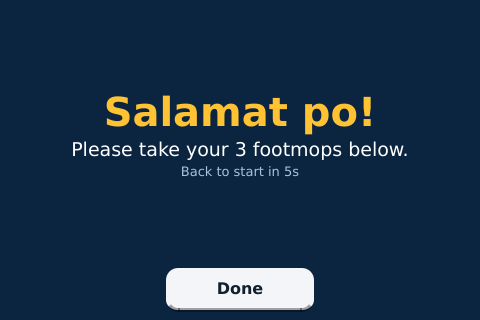
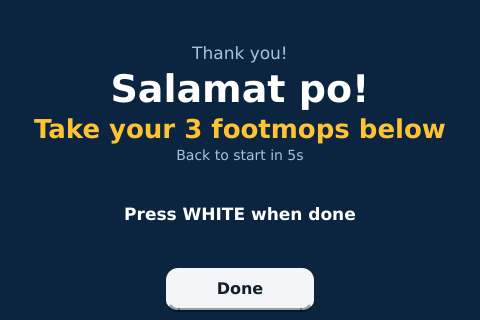
Give every customer screen the welcome-screen layout
Quantity, payment, dispensing, success, sold-out, fault and the
"Still there?" warning now share one centred layout: small muted line,
big bold title, yellow highlight, small detail line, and a bold
instruction - no header bar, no boxed panels.

Claude-Session: https://claude.ai/code/session_015ukmGBxerGga86RxMG4qdD

Changed region(s): [[0.0625, 0.2188, 0.9375, 0.5625], [0.25, 0.625, 0.75, 0.6875], [0.4062, 0.125, 0.5938, 0.1875]]

diff --git a/footmop_vendo/footmop/ui/screens.py b/footmop_vendo/footmop/ui/screens.py
@@ -183,154 +183,158 @@ def card(sc: T.Scale, color: str) -> Tuple[QFrame, QVBoxLayout]:
 
 
 # ================================================================= customer
+class Hero:
+    """The welcome-screen layout, shared by every customer screen so they all
+    look alike - a vertically centred stack of:
+
+        kicker   small, muted         ("Welcome to")
+        main     big, bold, white     ("Footmop Vendo")
+        accent   bold, yellow         ("P5 each")
+        sub      small, muted         ("6 available")
+        cta      bold, white          ("Press WHITE to buy")
+    """
+
+    def __init__(self, screen: "Screen", main: Optional[QWidget] = None,
+                 extra: Optional[QWidget] = None, main_px: int = 38):
+        sc = screen.ctx.sc
+        b = screen.body
+        b.addStretch(1)
+        self.kicker = T.label(sc, "", 17, T.MUTED)
+        b.addWidget(self.kicker)
+        if main is None:
+            self.main = T.label(sc, "", main_px, T.TEXT, True)
+            b.addWidget(self.main)
+        else:
+            b.addWidget(main)
+        self.accent = T.label(sc, "", 26, T.ACCENT, True)
+        b.addWidget(self.accent)
+        if extra is not None:
+            b.addWidget(extra)
+        self.sub = T.label(sc, "", 14, T.MUTED, wrap=True)
+        b.addWidget(self.sub)
+        b.addStretch(1)
+        self.cta = T.label(sc, "", 17, T.TEXT, True, wrap=True)
+        b.addWidget(self.cta)
+        b.addStretch(1)
+
+    def set(self, kicker: str = "", main: Optional[str] = None, accent: str = "",
+            sub: str = "", cta: str = "") -> None:
+        for lbl, txt in ((self.kicker, kicker), (self.accent, accent), (self.sub, sub),
+                         (self.cta, cta)):
+            _set(lbl, txt)
+            lbl.setVisible(bool(txt))
+        if main is not None and hasattr(self, "main"):
+            _set(self.main, main)
+
+
 class LandingScreen(Screen):
     def __init__(self, ctx: Ctx):
         super().__init__(ctx)
-        sc = ctx.sc
-        self.body.addStretch(1)
-        self.body.addWidget(T.label(sc, "Welcome to", 17, T.MUTED))
-        self.body.addWidget(T.label(sc, "Footmop Vendo", 38, T.TEXT, True))
-        self.price = T.label(sc, "", 26, T.ACCENT, True)
-        self.body.addWidget(self.price)
-        self.avail = T.label(sc, "", 14, T.MUTED)
-        self.body.addWidget(self.avail)
-        self.body.addStretch(1)
-        self.body.addWidget(T.label(sc, "Press WHITE to buy", 17, T.TEXT, True))
-        self.body.addStretch(1)
+        self.hero = Hero(self)
         self.legend.set(white="BUY")
 
     def refresh(self) -> None:
         k = self.ctx.kiosk
-        _set(self.header.status, f"Stock {k.stock}")
-        _set(self.price, f"{self.ctx.money(k.price)} each")
-        _set(self.avail, f"{k.stock} available")
+        self.hero.set("Welcome to", "Footmop Vendo", f"{self.ctx.money(k.price)} each",
+                      f"{k.stock} available", "Press WHITE to buy")
 
 
 class SoldOutScreen(Screen):
     def __init__(self, ctx: Ctx):
         super().__init__(ctx)
-        sc = ctx.sc
-        self.body.addStretch(1)
-        self.body.addWidget(T.label(sc, "SOLD OUT", 42, T.ACCENT, True))
-        self.body.addWidget(T.label(sc, "Sorry, no footmops left.\nPlease come back later.", 17, T.TEXT))
-        self.body.addWidget(T.label(sc, "Please don't insert coins.", 14, "#FF9C9C", True))
-        self.body.addStretch(1)
+        self.hero = Hero(self)
 
     def refresh(self) -> None:
-        _set(self.header.status, "Stock 0")
+        self.hero.set("Sorry", "Sold Out", "Please come back later",
+                      "No footmops left right now", "Please don't insert coins")
 
 
 class QuantityScreen(Screen):
     def __init__(self, ctx: Ctx):
         super().__init__(ctx)
         sc = ctx.sc
-        self.body.addWidget(T.label(sc, "How many footmops?", 19, T.TEXT, True))
-        row = QHBoxLayout()
-        self.left = T.label(sc, "◀", 40, T.GREEN, True)
-        self.qty = T.label(sc, "1", 76, T.TEXT, True)
-        self.right = T.label(sc, "▶", 40, T.BLUE, True)
-        row.addWidget(self.left, 1)
-        row.addWidget(self.qty, 2)
-        row.addWidget(self.right, 1)
-        self.body.addLayout(row, 1)
-        self.total = T.label(sc, "", 21, T.ACCENT, True)
-        self.body.addWidget(self.total)
-        self.sub = T.label(sc, "", 13, T.MUTED)
-        self.body.addWidget(self.sub)
+        row = QWidget()
+        rl = QHBoxLayout(row)
+        rl.setContentsMargins(0, 0, 0, 0)
+        self.left = T.label(sc, "\u25c0", 30, T.GREEN, True)
+        self.qty = T.label(sc, "1", 56, T.TEXT, True)
+        self.right = T.label(sc, "\u25b6", 30, T.BLUE, True)
+        rl.addStretch(1)
+        rl.addWidget(self.left)
+        rl.addSpacing(sc(28))
+        rl.addWidget(self.qty)
+        rl.addSpacing(sc(28))
+        rl.addWidget(self.right)
+        rl.addStretch(1)
+        self.hero = Hero(self, main=row)
 
     def refresh(self) -> None:
         k, m = self.ctx.kiosk, self.ctx.money
         coins = -(-k.amount_due // self.ctx.cfg.coin.value)
-        _set(self.header.status, f"Stock {k.stock}")
         _set(self.qty, str(k.qty))
         can_less = k.qty > k.min_qty
         can_more = k.qty < k.max_qty
-        # keep layout stable: hide arrows by colour, not by removing them
         arrows = (can_less, can_more)
         if getattr(self, "_arrows", None) != arrows:
             self._arrows = arrows
             self.left.setStyleSheet(f"color: {T.GREEN if can_less else 'transparent'}; background: transparent;")
             self.right.setStyleSheet(f"color: {T.BLUE if can_more else 'transparent'}; background: transparent;")
-        _set(self.total, f"Total {m(k.amount_due)}  ({coins} coin{'s' if coins != 1 else ''})")
-        if k.credit:
-            sub = f"Inserted {m(k.credit)}  •  paid for {k.credit // k.price}"
-        else:
-            sub = f"{k.max_qty} available"
-        _set(self.sub, sub)
+        sub = (f"Paid {m(k.credit)} so far" if k.credit else f"{k.max_qty} available")
+        self.hero.set("How many footmops?", None,
+                      f"Total {m(k.amount_due)}",
+                      f"{coins} coin{'s' if coins != 1 else ''}  \u2022  {sub}",
+                      "Press WHITE to confirm")
         if k.qty <= 1 and k.credit == 0:
             green = "Cancel"
         else:
-            green = "− Less" if can_less else None
+            green = "\u2212 Less" if can_less else None
         self.legend.set(green=green, white="OK", blue="More +" if can_more else None)
 
 
 class PaymentScreen(Screen):
     def __init__(self, ctx: Ctx):
         super().__init__(ctx)
-        sc = ctx.sc
-        self.title = T.label(sc, "", 20, T.TEXT, True)
-        self.body.addWidget(self.title)
         self.coins = CoinRow(ctx)
-        self.body.addWidget(self.coins)
-        self.amount = T.label(sc, "", 34, T.ACCENT, True)
-        self.body.addWidget(self.amount)
-        self.detail = T.label(sc, "", 13, T.MUTED)
-        self.body.addWidget(self.detail)
-        self.body.addStretch(1)
-        notice, nl = card(sc, "#3A2A00")
-        nl.setContentsMargins(sc(8), sc(3), sc(8), sc(3))
-        nl.addWidget(T.label(sc, "Exact amount only  •  No change given", 13, T.ACCENT, True))
-        self.body.addWidget(notice)
-        self.legend.set(green="← Back")
+        self.hero = Hero(self, extra=self.coins)
+        self.legend.set(green="\u2190 Back")
 
     def refresh(self) -> None:
         k, m = self.ctx.kiosk, self.ctx.money
-        cv = self.ctx.cfg.coin.value
         need = k.coins_needed
-        _set(self.header.status, f"{k.qty} item{'s' if k.qty > 1 else ''}")
-        _set(self.title, f"Insert {need} more {m(cv)} coin{'s' if need != 1 else ''}")
         self.coins.set(k.coins_paid, k.coins_paid + need)
-        _set(self.amount, f"{m(k.credit)} / {m(k.amount_due)}")
-        _set(self.detail, f"{k.qty} × {m(k.price)}")
+        self.hero.set(f"Insert {m(self.ctx.cfg.coin.value)} coins",
+                      f"{m(k.credit)} / {m(k.amount_due)}",
+                      f"{need} more coin{'s' if need != 1 else ''}",
+                      f"{k.qty} footmop{'s' if k.qty != 1 else ''} \u00d7 {m(k.price)}",
+                      "Exact amount only  \u2022  No change given")
 
 
 class DispensingScreen(Screen):
     def __init__(self, ctx: Ctx):
         super().__init__(ctx)
-        sc = ctx.sc
-        self.body.addStretch(1)
-        self.body.addWidget(T.label(sc, "Dispensing your footmop…", 22, T.TEXT, True))
-        self.progress = T.label(sc, "", 34, T.ACCENT, True)
-        self.body.addWidget(self.progress)
-        self.body.addWidget(T.label(sc, "Please wait - don't reach into the chute", 14, T.MUTED))
-        self.body.addStretch(1)
+        self.hero = Hero(self)
 
     def refresh(self) -> None:
         k = self.ctx.kiosk
-        _set(self.progress, f"{min(k.qty, k.items_done + 1)} of {k.qty}")
-        _set(self.header.status, "")
+        self.hero.set("Please wait", "Dispensing\u2026",
+                      f"{min(k.qty, k.items_done + 1)} of {k.qty}",
+                      "Don't reach into the chute yet", "")
 
 
 class SuccessScreen(Screen):
     def __init__(self, ctx: Ctx):
         super().__init__(ctx)
-        sc = ctx.sc
-        self.body.addStretch(1)
-        self.body.addWidget(T.label(sc, "Salamat po!", 40, T.ACCENT, True))
-        self.msg = T.label(sc, "", 19, T.TEXT, wrap=True)
-        self.body.addWidget(self.msg)
-        self.over = T.label(sc, "", 13, T.MUTED, wrap=True)
-        self.body.addWidget(self.over)
-        self.body.addStretch(1)
+        self.hero = Hero(self)
         self.legend.set(white="Done")
 
     def refresh(self) -> None:
         k = self.ctx.kiosk
         n = k.qty
-        _set(self.msg, f"Please take your {n} footmop{'s' if n > 1 else ''} below.")
-        _set(self.over, (f"Overpaid {self.ctx.money(k.overpaid)} - no change given.  " if k.overpaid else "")
-             + f"Back to start in {k.success_seconds_left}s")
-        _set(self.header.status, "")
+        over = f"Overpaid {self.ctx.money(k.overpaid)} - no change given  \u2022  " if k.overpaid else ""
+        self.hero.set("Thank you!", "Salamat po!",
+                      f"Take your {n} footmop{'s' if n != 1 else ''} below",
+                      f"{over}Back to start in {k.success_seconds_left}s",
+                      "Press WHITE when done")
 
 
 class FaultScreen(Screen):
@@ -342,32 +346,24 @@ class FaultScreen(Screen):
 
     def __init__(self, ctx: Ctx):
         super().__init__(ctx)
-        sc = ctx.sc
         self.setObjectName("fault")
         self.setAttribute(Qt.WA_StyledBackground, True)
         self.setStyleSheet(f"QWidget#fault {{ background: {T.DANGER_DARK}; }}")
-        box, bl = card(sc, T.DANGER)
-        bl.setContentsMargins(sc(12), sc(10), sc(12), sc(10))
-        bl.addWidget(T.label(sc, "OUT OF SERVICE", 30, T.TEXT, True))
-        self.title = T.label(sc, "", 18, T.TEXT, True, wrap=True)
-        bl.addWidget(self.title)
-        bl.addWidget(T.label(sc, "Please contact the owner.  Do not insert coins.", 14, T.TEXT))
-        self.body.addStretch(1)
-        self.body.addWidget(box)
-        self.detail = T.label(sc, "", 12, "#FFD5D5", wrap=True)
-        self.body.addWidget(self.detail)
-        self.body.addStretch(1)
+        self.hero = Hero(self, main_px=34)
+        self.hero.kicker.setStyleSheet("color: #FFC9C9; background: transparent;")
+        self.hero.sub.setStyleSheet("color: #FFC9C9; background: transparent;")
         self.legend.hide()
 
     def refresh(self) -> None:
         f = self.ctx.kiosk.store.active_fault()
-        _set(self.header.status, "LOCKED")
         if not f:
-            _set(self.title, "Error")
+            self.hero.set("Sorry", "OUT OF SERVICE", "Error", "", "Please contact the owner")
             return
-        _set(self.title, "Error: " + self.TITLES.get(f["code"], f["code"]))
-        owed = f"  •  Items owed: {f['owed_items']}" if f["owed_items"] else ""
-        _set(self.detail, f"Code {f['code']}  •  {f['ts'].replace('T', ' ')}{owed}")
+        owed = f"  \u2022  Items owed: {f['owed_items']}" if f["owed_items"] else ""
+        self.hero.set("Sorry", "OUT OF SERVICE",
+                      "Error: " + self.TITLES.get(f["code"], f["code"]),
+                      f"Code {f['code']}  \u2022  {f['ts'][:16].replace('T', ' ')}{owed}",
+                      "Please contact the owner  \u2022  Don't insert coins")
 
 
 # ==================================================================== admin

diff --git a/footmop_vendo/footmop/ui/app.py b/footmop_vendo/footmop/ui/app.py
@@ -90,29 +90,38 @@ class BlockPointerInput(QObject):
 
 # ---------------------------------------------------------------- window
 class WarningOverlay(QFrame):
+    """Same centred layout as the welcome screen, on a darkened background."""
+
     def __init__(self, parent: QWidget, ctx: S.Ctx):
         super().__init__(parent)
         self.ctx = ctx
         sc = ctx.sc
-        self.setStyleSheet("QFrame { background: rgba(4, 14, 26, 235); }")
+        self.setObjectName("warn")
+        self.setStyleSheet(f"QFrame#warn {{ background: {T.BG}; }}")
         lay = QVBoxLayout(self)
-        lay.setContentsMargins(sc(20), sc(20), sc(20), sc(20))
+        lay.setContentsMargins(sc(10), sc(10), sc(10), sc(10))
+        lay.setSpacing(sc(2))
         lay.addStretch(1)
-        lay.addWidget(T.label(sc, "Still there?", 34, T.ACCENT, True))
-        lay.addWidget(T.label(sc, "Press any button to continue.", 17, T.TEXT, True, wrap=True))
-        self.count = T.label(sc, "", 26, T.TEXT, True)
+        lay.addWidget(T.label(sc, "No button pressed for a while", 17, T.MUTED))
+        lay.addWidget(T.label(sc, "Still there?", 38, T.TEXT, True))
+        self.count = T.label(sc, "", 26, T.ACCENT, True)
         lay.addWidget(self.count)
         self.credit = T.label(sc, "", 14, "#FF9C9C", True, wrap=True)
         lay.addWidget(self.credit)
+        lay.addStretch(1)
+        lay.addWidget(T.label(sc, "Press any button to continue", 17, T.TEXT, True))
         lay.addStretch(1)
         self.hide()
 
     def refresh(self) -> None:
         k = self.ctx.kiosk
-        self.count.setText(f"Cancelling in {k.warning_seconds_left} s")
-        self.credit.setText(
-            f"Your {self.ctx.money(k.credit)} credit will be forfeited if the order is cancelled."
-            if k.credit else "")
+        sec = f"Cancelling in {k.warning_seconds_left} s"
+        if self.count.text() != sec:
+            self.count.setText(sec)
+        cr = (f"Your {self.ctx.money(k.credit)} will be forfeited if cancelled" if k.credit else "")
+        if self.credit.text() != cr:
+            self.credit.setText(cr)
+        self.credit.setVisible(bool(cr))
 
 
 class MainWindow(QWidget):
